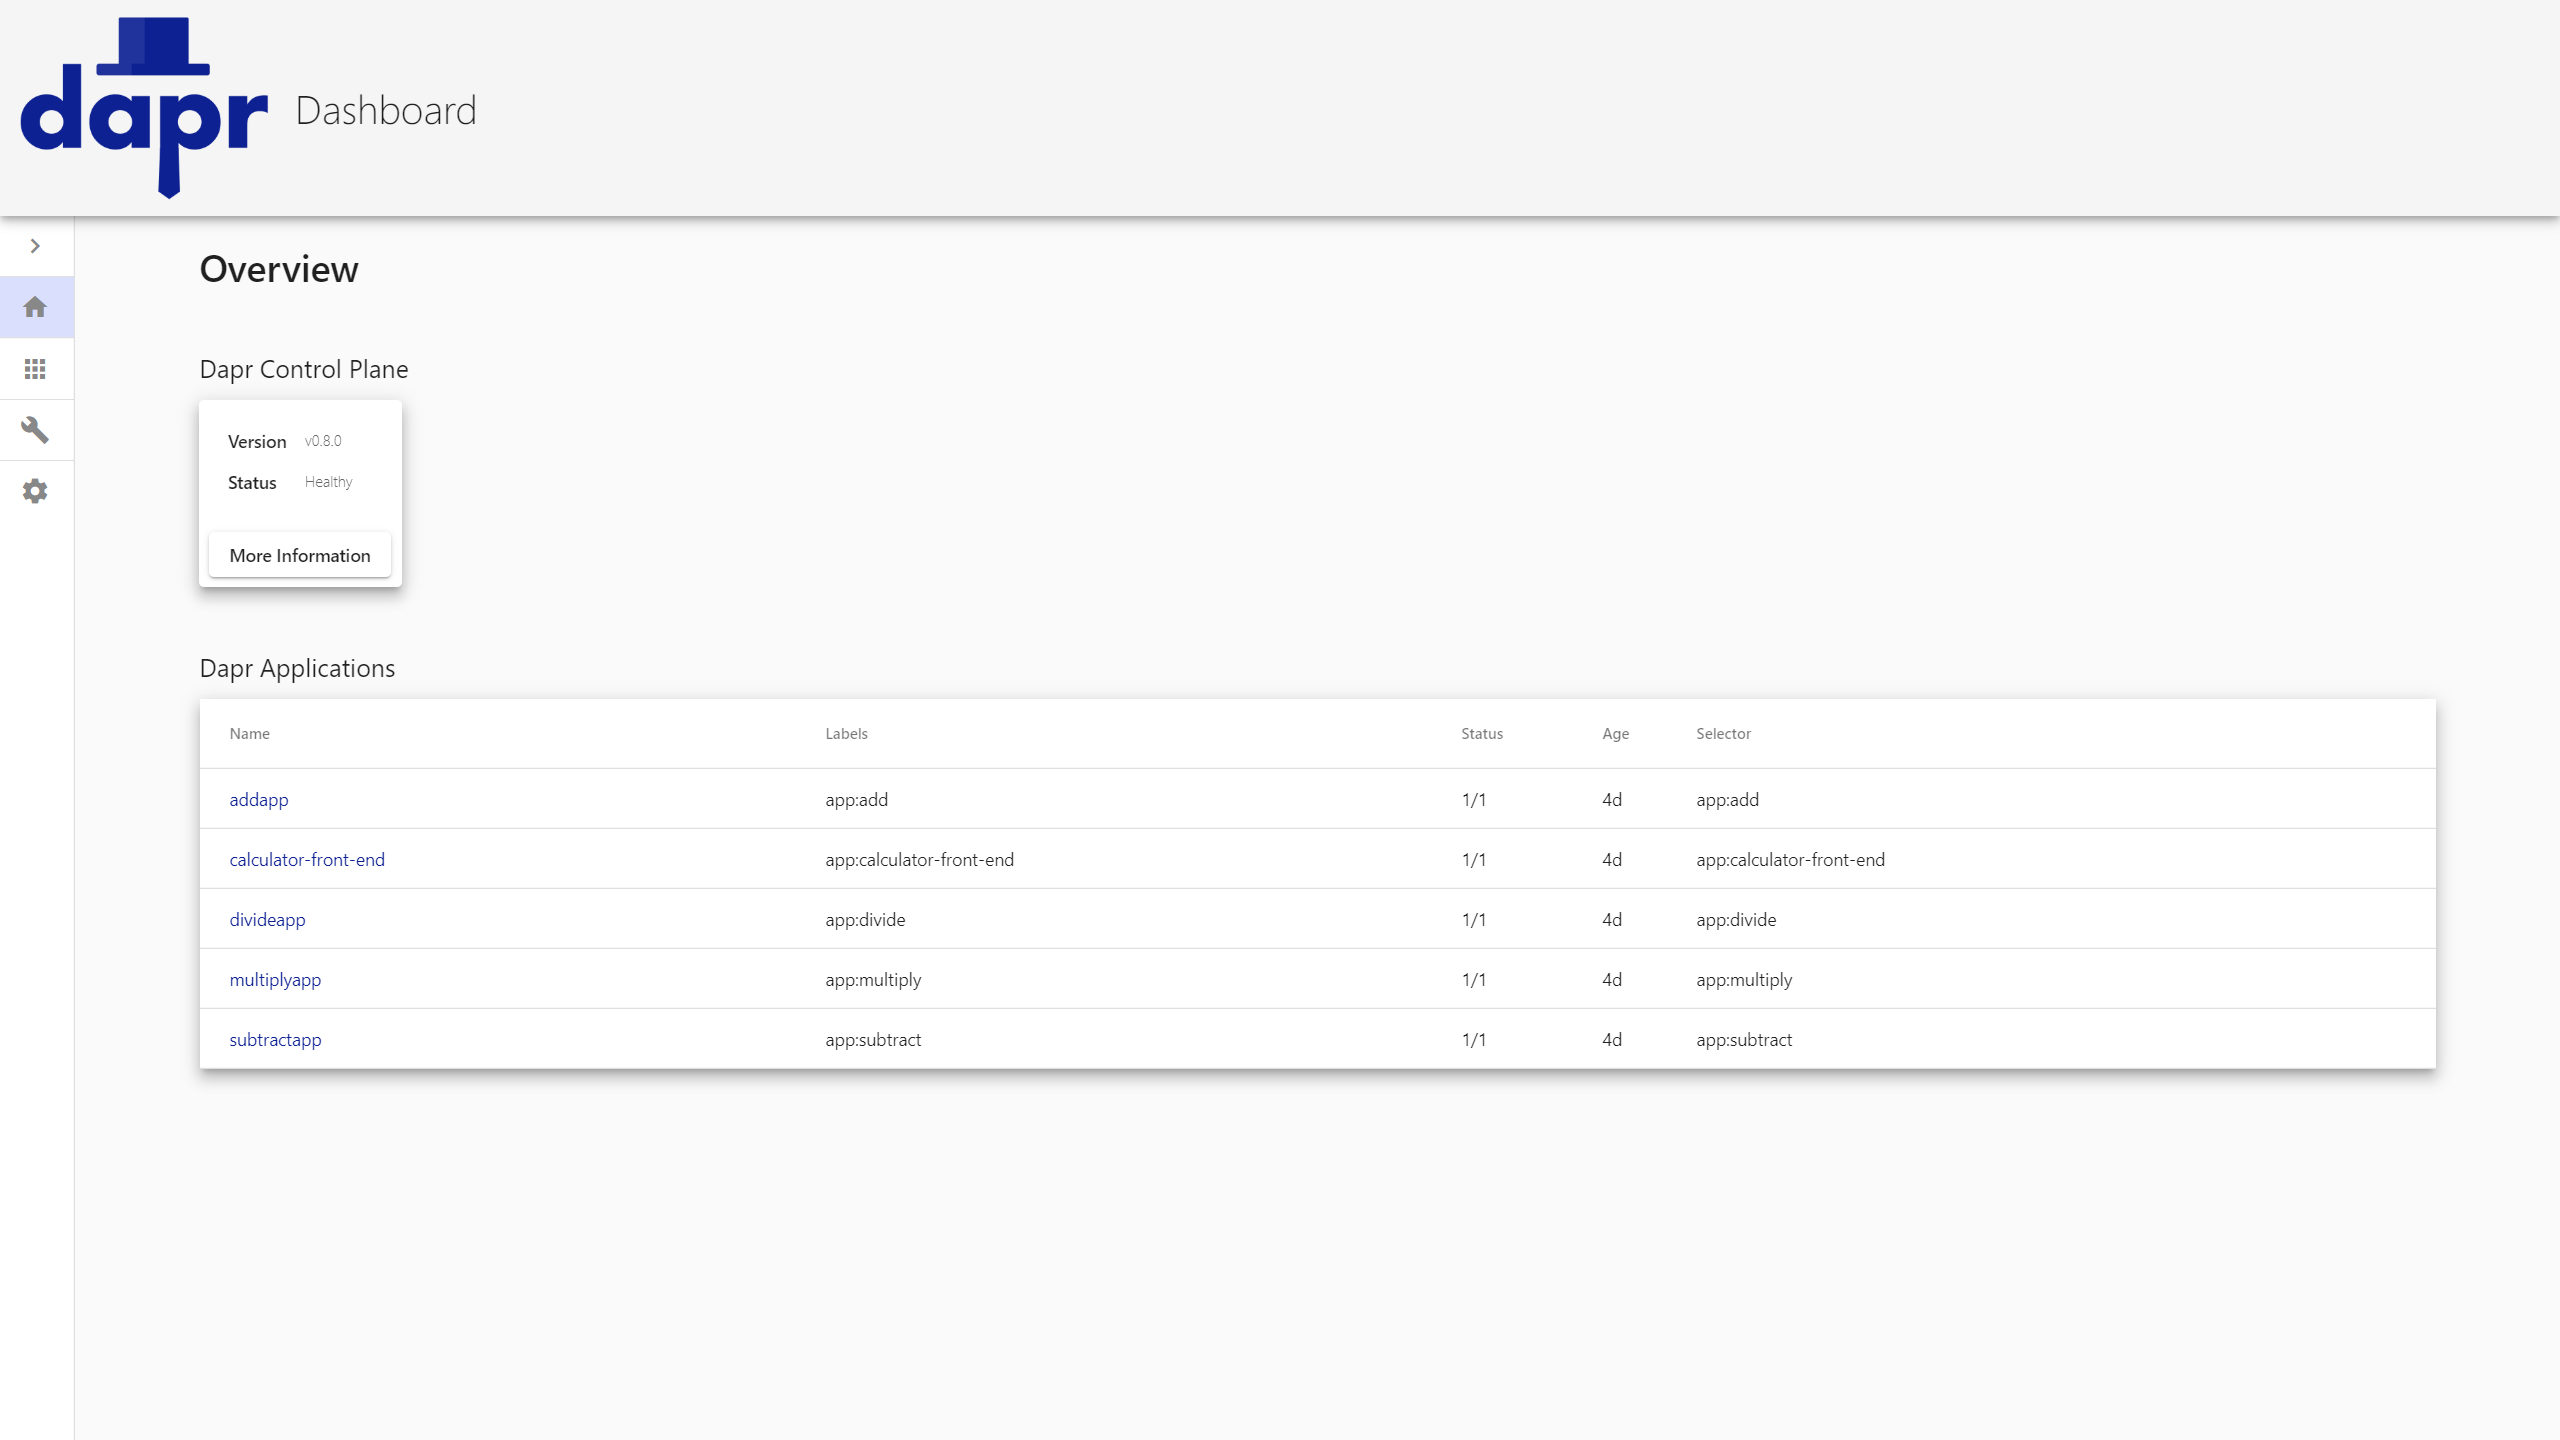
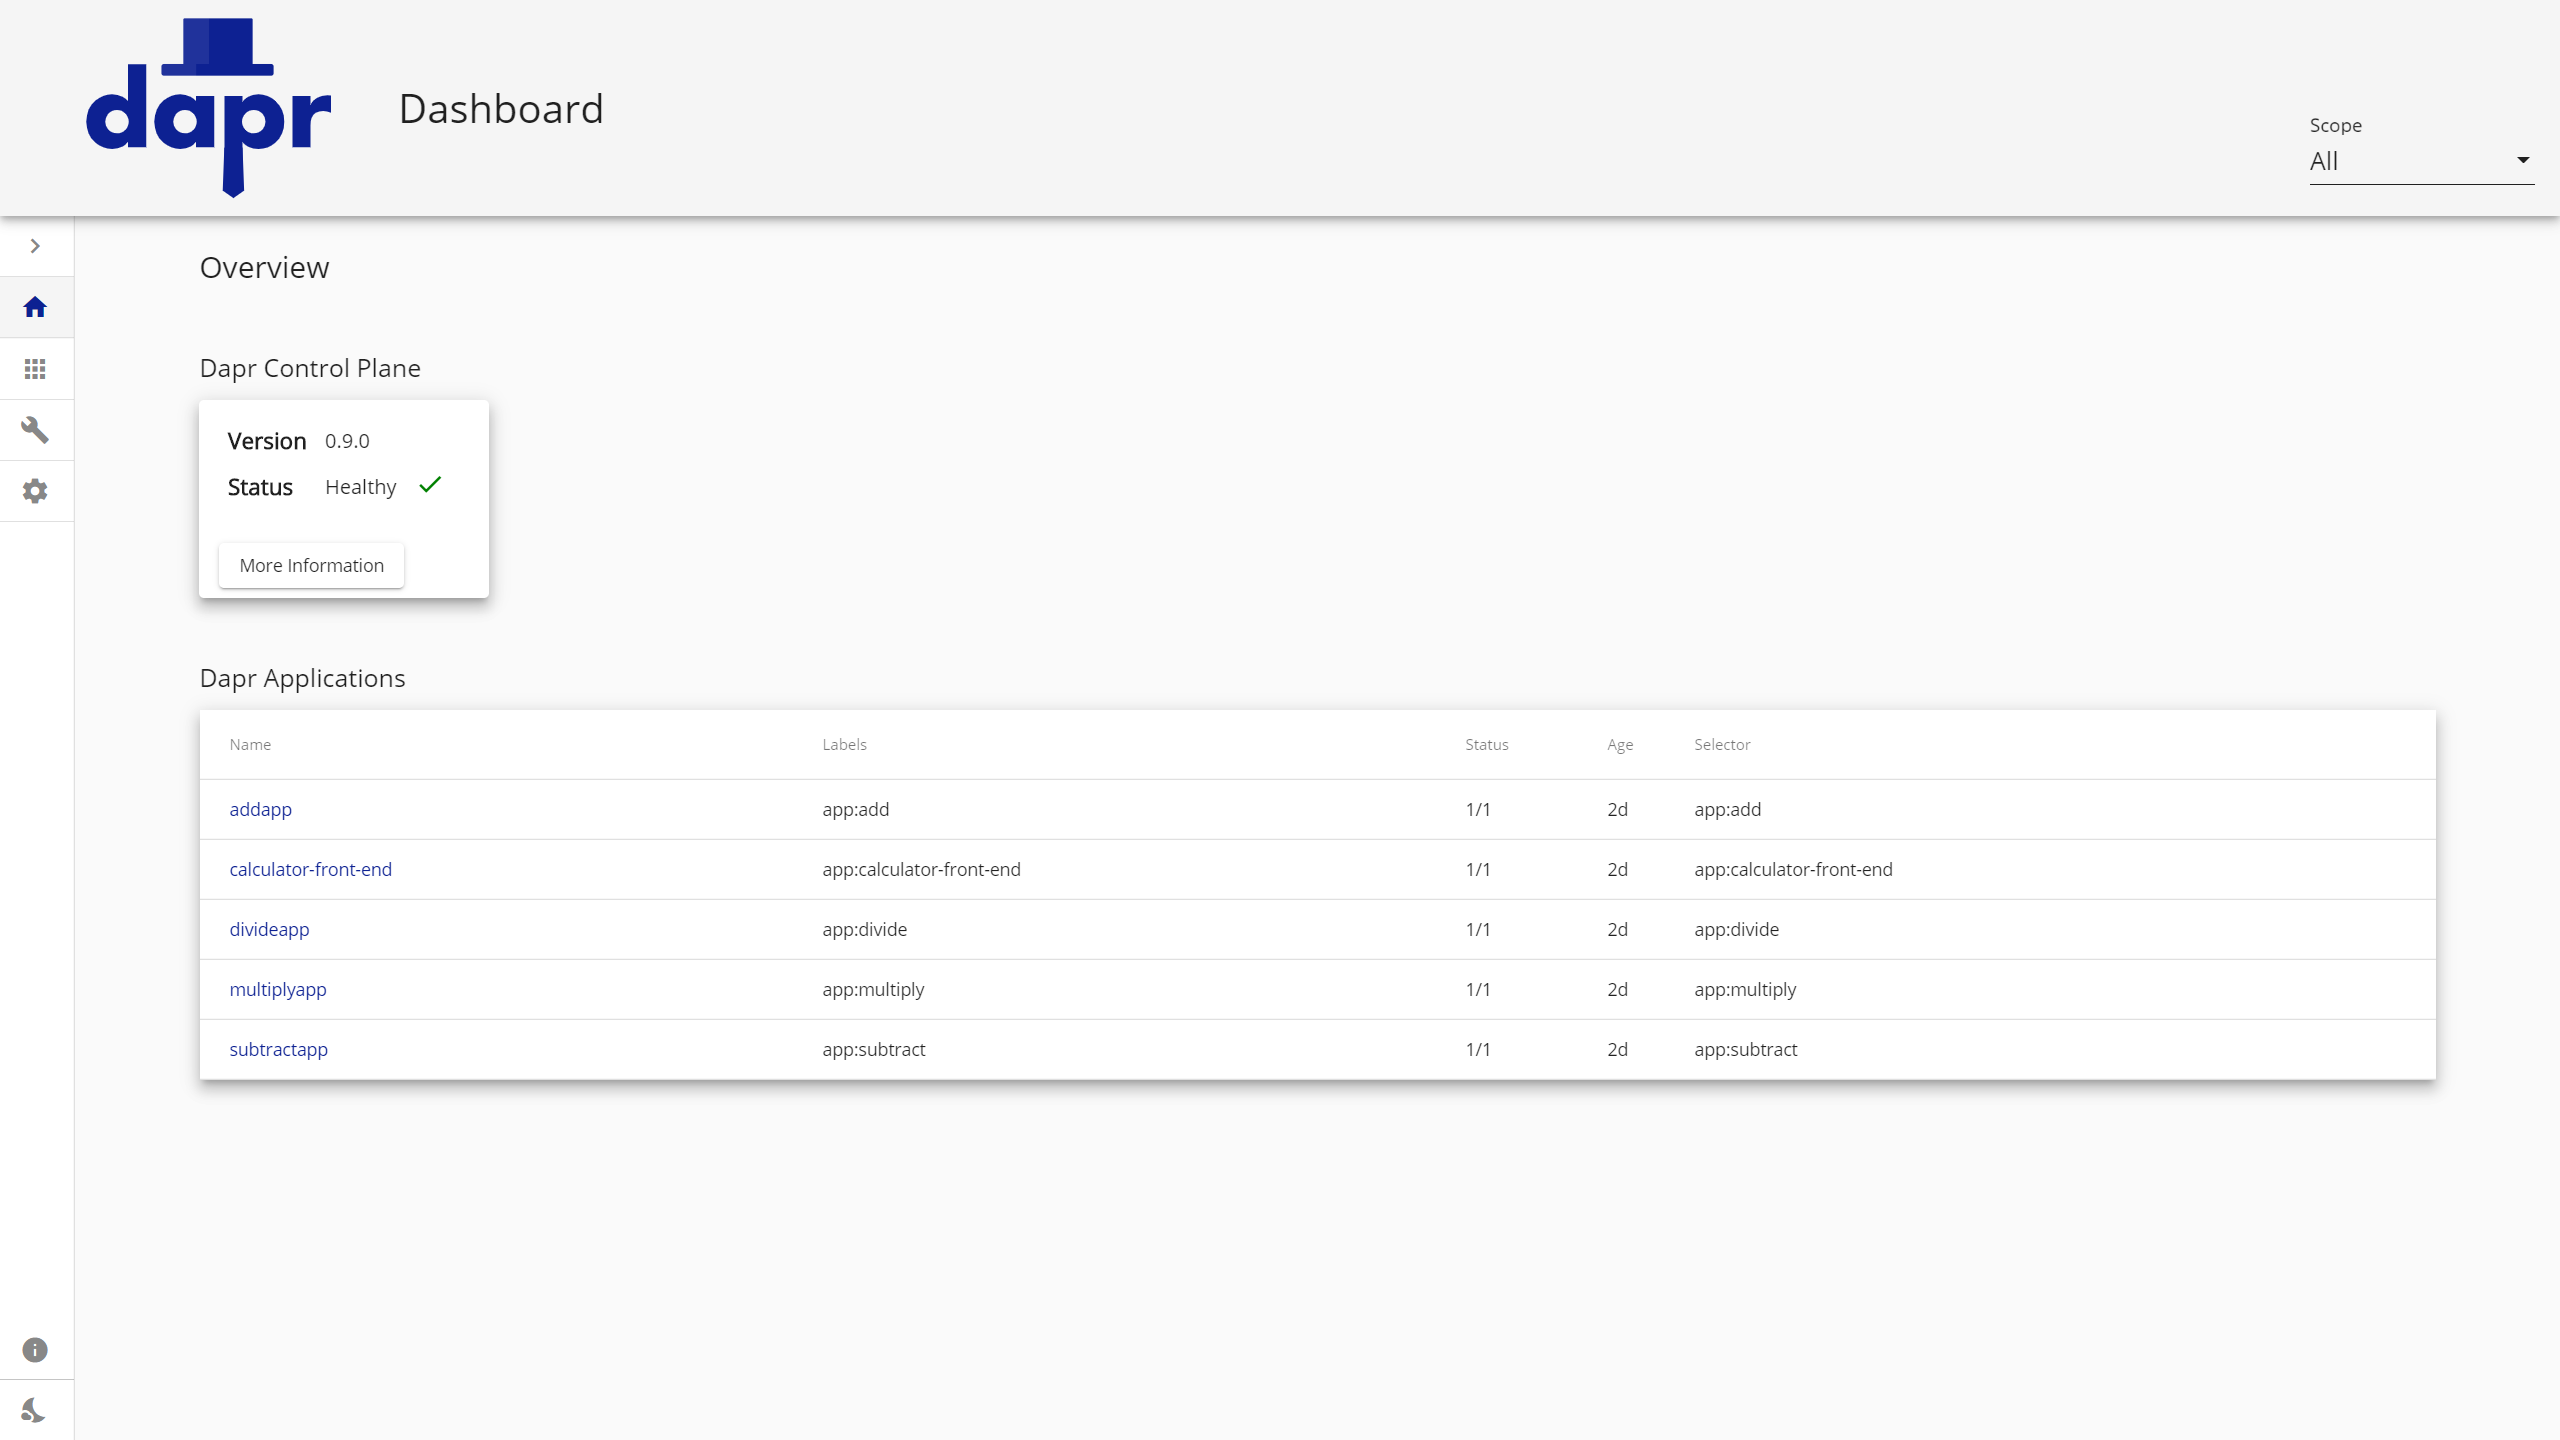
Adding dashboard version information to overview (#71)
* added version command

* added version icon to front page

* updated readme image

* normalizing dialog component name

* fixing dialog title

diff --git a/web/src/app/pages/pages.component.ts b/web/src/app/pages/pages.component.ts
@@ -1,4 +1,4 @@
-import { Component, ViewChild, OnInit, HostBinding, OnDestroy } from '@angular/core';
+import { Component, ViewChild, OnInit, HostBinding, OnDestroy, Inject } from '@angular/core';
 import { MenuItem, MENU_ITEMS, COMPONENTS_MENU_ITEM, CONFIGURATIONS_MENU_ITEM, CONTROLPLANE_MENU_ITEM } from './pages-menu';
 import { FeaturesService } from 'src/app/features/features.service';
 import { MatSidenav } from '@angular/material/sidenav';
@@ -7,6 +7,11 @@ import { ThemeService } from 'src/app/theme/theme.service';
 import { OverlayContainer } from '@angular/cdk/overlay';
 import { Router } from '@angular/router';
 import { ScopesService } from '../scopes/scopes.service';
+import { MatDialog, MAT_DIALOG_DATA } from '@angular/material/dialog';
+
+export interface DialogData {
+  version: string;
+}
 
 @Component({
   selector: 'app-pages',
@@ -26,6 +31,8 @@ export class PagesComponent implements OnInit, OnDestroy {
   public themeSelectorEnabled: boolean;
   public scopeValue = 'All';
   public scopes: string[];
+  public version: string;
+  public versionLoaded: boolean;
   private intervalHandler;
 
   constructor(
@@ -35,9 +42,11 @@ export class PagesComponent implements OnInit, OnDestroy {
     private overlayContainer: OverlayContainer,
     public router: Router,
     private scopesService: ScopesService,
+    public dialog: MatDialog,
   ) { }
 
   ngOnInit(): void {
+    this.getVersion();
     this.getFeatures();
     this.getScopes();
     this.componentCssClass = this.themeService.getTheme();
@@ -50,6 +59,13 @@ export class PagesComponent implements OnInit, OnDestroy {
 
   ngOnDestroy(): void {
     clearInterval(this.intervalHandler);
+  }
+
+  getVersion(): void {
+    this.globals.getVersion().subscribe(version => {
+      this.version = version;
+      this.versionLoaded = true;
+    });
   }
 
   getFeatures(): void {
@@ -103,4 +119,20 @@ export class PagesComponent implements OnInit, OnDestroy {
     this.scopesService.changeScope(this.scopeValue);
     this.getScopes();
   }
+
+  openDialog() {
+    this.dialog.open(AboutDialogComponent, {
+      data: {
+        version: this.version
+      }
+    });
+  }
+}
+
+@Component({
+  selector: 'app-about-dialog',
+  templateUrl: 'dialog-template.html',
+})
+export class AboutDialogComponent {
+  constructor(@Inject(MAT_DIALOG_DATA) public data: DialogData) {}
 }

diff --git a/web/src/app/pages/pages.component.html b/web/src/app/pages/pages.component.html
@@ -28,8 +28,12 @@
             class="navigation-item-label">{{ component.title }}</span>
         </a>
       </ng-container>
+      <a id="info-dialog" class="navigation-item" mat-list-item (click)="openDialog()">
+        <mat-icon>info</mat-icon>
+        <mat-divider class="navigation-divider"></mat-divider>
+      </a>
       <mat-divider class="navigation-divider"></mat-divider>
-      <a *ngIf="globals.changesEnabledRoutes.includes(router.url)" id="theme-selector" class="navigation-item"
+      <a fxLayout="row" fxLayoutAlign="space-around end" id="theme-selector" *ngIf="globals.changesEnabledRoutes.includes(router.url)" class="navigation-item"
         mat-list-item (click)="onThemeChange()">
         <mat-icon class="material-icons">{{ isLightMode ? 'nights_stay' : 'wb_sunny' }}</mat-icon><span
           class="navigation-item-label">{{ isLightMode ? 'Dark Theme' : 'Light Theme' }}</span>

diff --git a/web/src/app/pages/pages.module.ts b/web/src/app/pages/pages.module.ts
@@ -16,6 +16,7 @@ import { ConfigurationDetailModule } from './configuration/configuration-detail/
 import { OverlayModule } from '@angular/cdk/overlay';
 import { MatSelectModule } from '@angular/material/select';
 import { FormsModule } from '@angular/forms';
+import { MatDialogModule } from '@angular/material/dialog';
 
 @NgModule({
   imports: [
@@ -35,6 +36,7 @@ import { FormsModule } from '@angular/forms';
     OverlayModule,
     MatSelectModule,
     FormsModule,
+    MatDialogModule
   ],
   declarations: [
     PagesComponent,

diff --git a/web/src/app/globals/globals.service.ts b/web/src/app/globals/globals.service.ts
@@ -1,7 +1,6 @@
 import { Injectable } from '@angular/core';
 import { HttpClient } from '@angular/common/http';
 import { Observable } from 'rxjs';
-import { map } from 'rxjs/operators';
 
 @Injectable({
   providedIn: 'root'
@@ -14,5 +13,9 @@ export class GlobalsService {
 
   getPlatform(): Observable<string> {
     return this.http.get('/api/platform', { responseType: 'text' });
+  }
+
+  getVersion(): Observable<string> {
+    return this.http.get('/api/version', { responseType: 'text' });
   }
 }

diff --git a/web/src/app/pages/dashboard/dashboard.component.ts b/web/src/app/pages/dashboard/dashboard.component.ts
@@ -89,6 +89,7 @@ export class DashboardComponent implements OnInit, OnDestroy {
   delete(id: string): void {
     this.instanceService.deleteInstance(id).subscribe(() => {
       this.showSnackbar('Deleted Dapr instance with ID ' + id);
+      this.getInstances();
     }, error => {
       this.showSnackbar('Failed to remove Dapr instance with ID ' + id);
     });

diff --git a/web/src/app/pages/pages.component.scss b/web/src/app/pages/pages.component.scss
@@ -68,11 +68,17 @@ mat-icon {
   left: 0;
 }
 
+#info-dialog {
+  position: absolute;
+  bottom: 48px;
+  left: 0;
+}
+
 #scopeContainer {
   position: absolute;
   top: 0;
   right: 0;
-  width: 15%;
+  width: 200px;
   height: 100%;
 }
 

diff --git a/web/src/app/pages/dialog-template.html b/web/src/app/pages/dialog-template.html
@@ -1,0 +1,4 @@
+<h1 mat-dialog-title>About</h1>
+<div mat-dialog-content>
+  Version: <strong>{{ data.version }}</strong>
+</div>

diff --git a/cmd/webserver.go b/cmd/webserver.go
@@ -14,6 +14,7 @@ import (
 	configurations "github.com/dapr/dashboard/pkg/configurations"
 	instances "github.com/dapr/dashboard/pkg/instances"
 	kube "github.com/dapr/dashboard/pkg/kube"
+	"github.com/dapr/dashboard/pkg/version"
 	"github.com/gorilla/mux"
 )
 
@@ -83,6 +84,7 @@ func RunWebServer() {
 	api.HandleFunc("/platform", getPlatformHandler).Methods("GET")
 	api.HandleFunc("/scopes", getScopesHandler).Methods("GET")
 	api.HandleFunc("/features", getFeaturesHandler).Methods("GET")
+	api.HandleFunc("/version", getVersionHandler).Methods("GET")
 
 	spa := spaHandler{staticPath: "web/dist", indexPath: "index.html"}
 	r.PathPrefix("/").Handler(spa)
@@ -274,6 +276,11 @@ func deleteInstancesHandler(w http.ResponseWriter, r *http.Request) {
 func getScopesHandler(w http.ResponseWriter, r *http.Request) {
 	resp := inst.GetScopes()
 	respondWithJSON(w, 200, resp)
+}
+
+func getVersionHandler(w http.ResponseWriter, r *http.Request) {
+	resp := version.GetVersion()
+	respondWithPlainString(w, 200, resp)
 }
 
 func respondWithError(w http.ResponseWriter, code int, message string) {

diff --git a/cmd/dashboard.go b/cmd/dashboard.go
@@ -1,0 +1,23 @@
+package cmd
+
+import (
+	"flag"
+	"fmt"
+	"os"
+
+	"github.com/dapr/dashboard/pkg/version"
+)
+
+// RunDashboard runs the dashboard with the supplied flags
+func RunDashboard() {
+	dashboardVersion := flag.Bool("version", false, "Prints the dashboard version")
+
+	flag.Parse()
+
+	if *dashboardVersion {
+		fmt.Println(version.GetVersion())
+		os.Exit(0)
+	} else {
+		RunWebServer()
+	}
+}

diff --git a/pkg/version/version.go b/pkg/version/version.go
@@ -1,0 +1,9 @@
+package version
+
+// Version is the current Dapr dashboard version
+var Version = "edge"
+
+// GetVersion returns the current dashboard version
+func GetVersion() string {
+	return Version
+}

diff --git a/main.go b/main.go
@@ -5,5 +5,5 @@ import (
 )
 
 func main() {
-	cmd.RunWebServer()
+	cmd.RunDashboard()
 }
